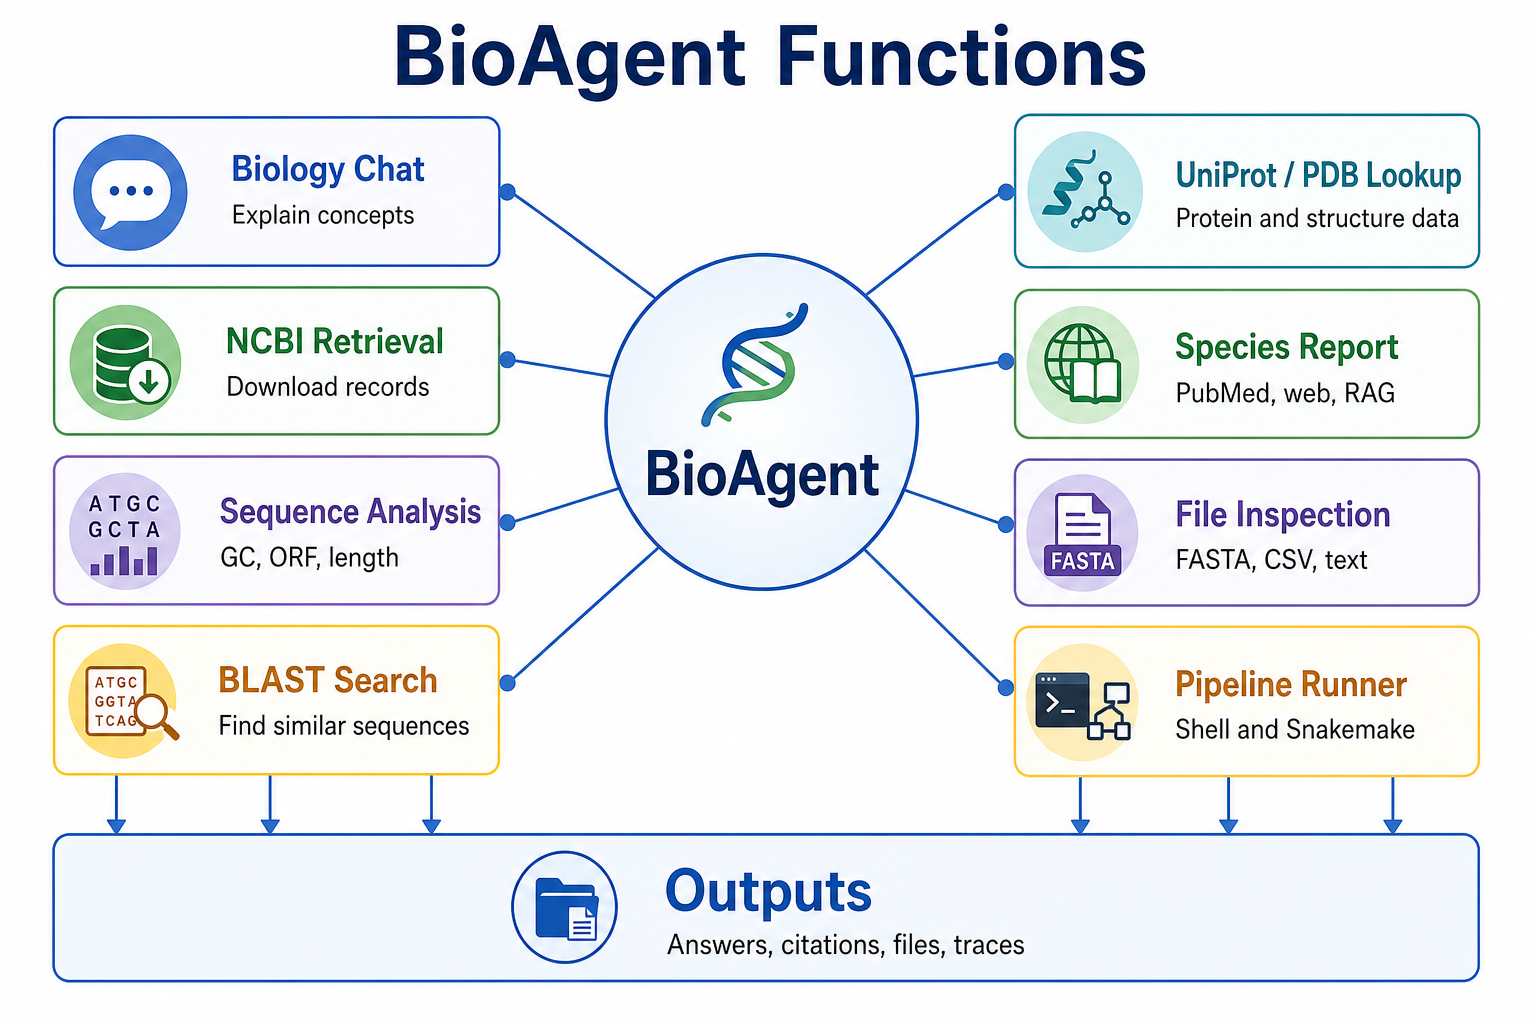
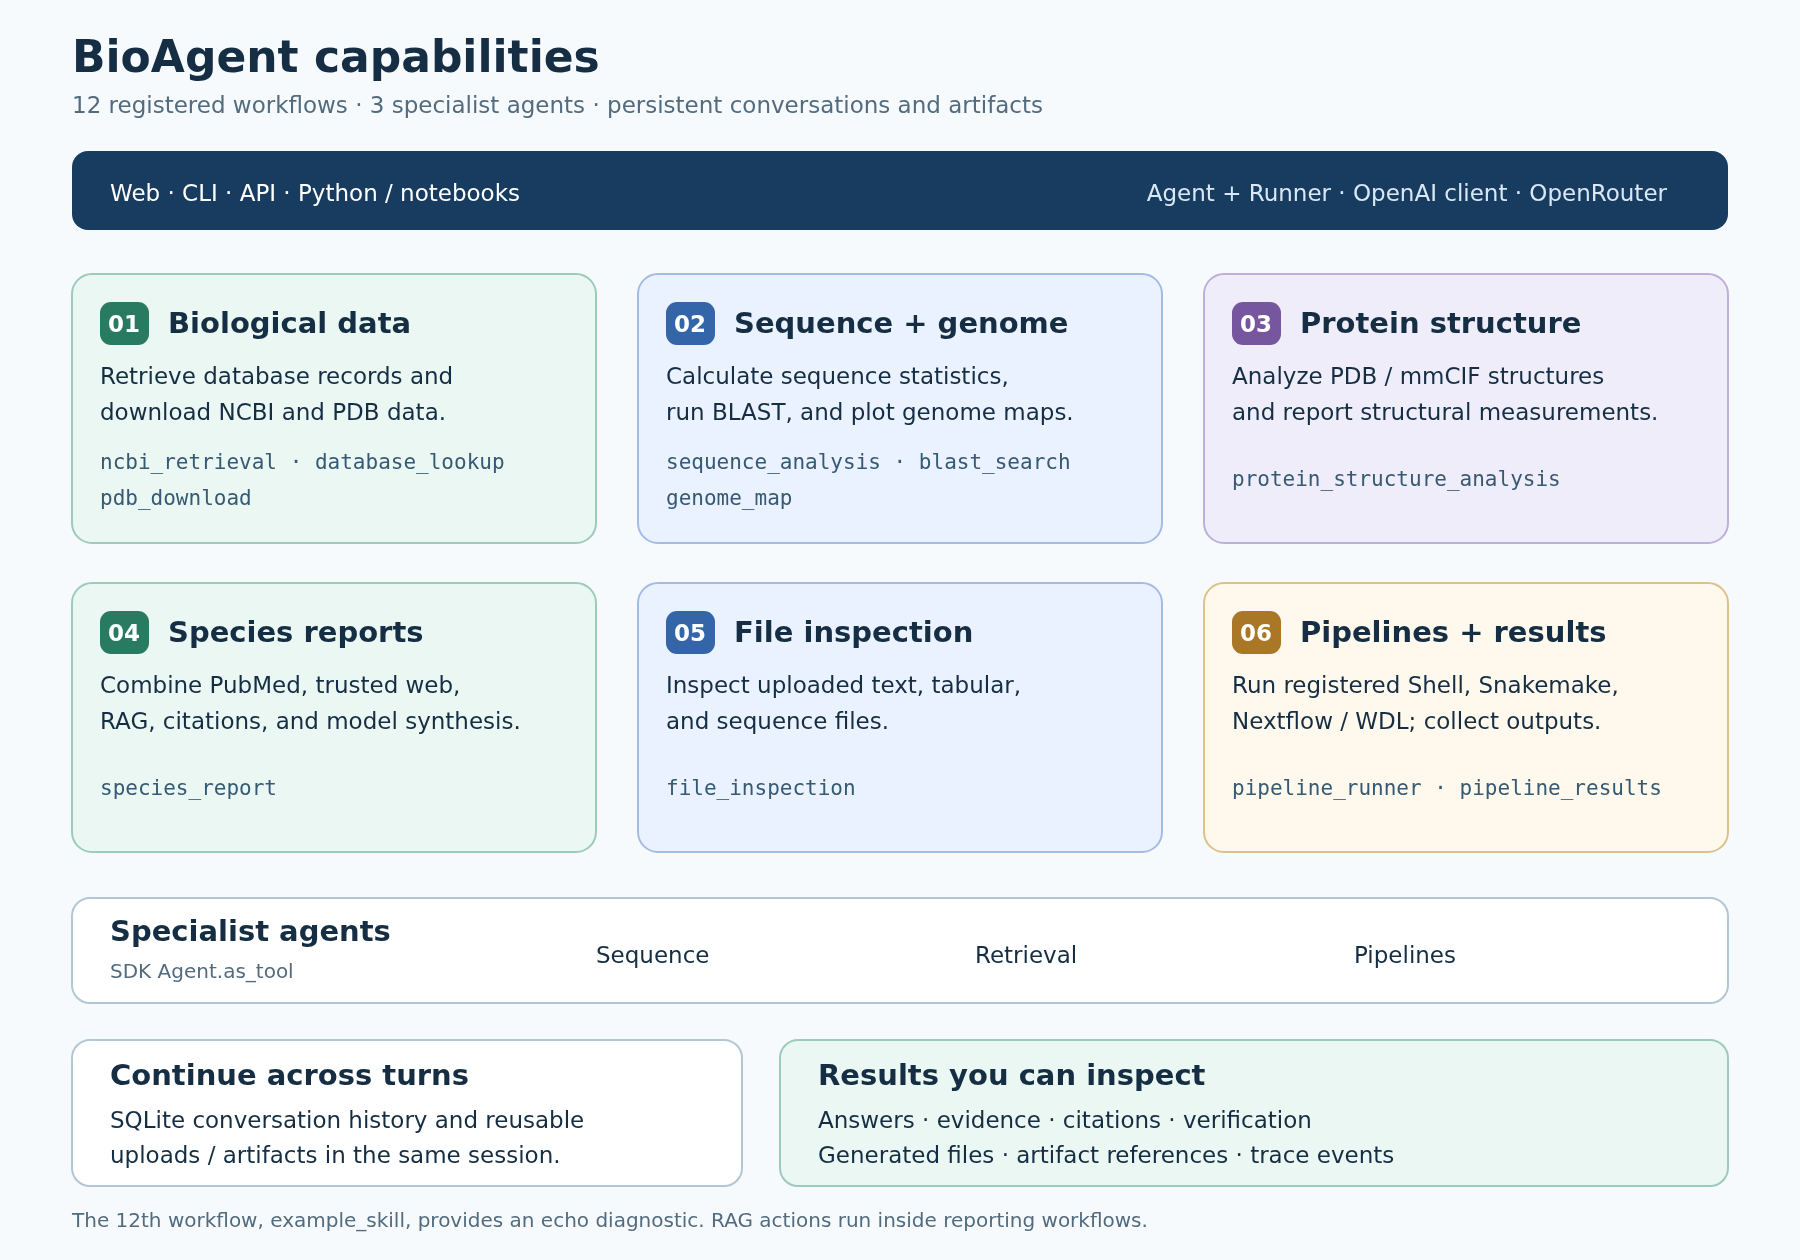
Regenerate current architecture documentation images

Changed region(s): [[0.0312, 0.0, 0.9688, 1.0], [0.5312, 0.75, 0.5938, 0.7812], [0.5938, 0.2188, 0.625, 0.25]]

diff --git a/docs/architecture.md b/docs/architecture.md
@@ -4,6 +4,8 @@ BioAgent uses one OpenAI Agents SDK runtime. The SDK owns model turns, tool
 calling, sessions, guardrails, and tracing. BioAgent supplies typed biological
 function tools and deterministic implementations for scientific operations.
 
+![BioAgent current system architecture](images/system_architecture.png)
+
 ## Runtime flow
 
 ```text
